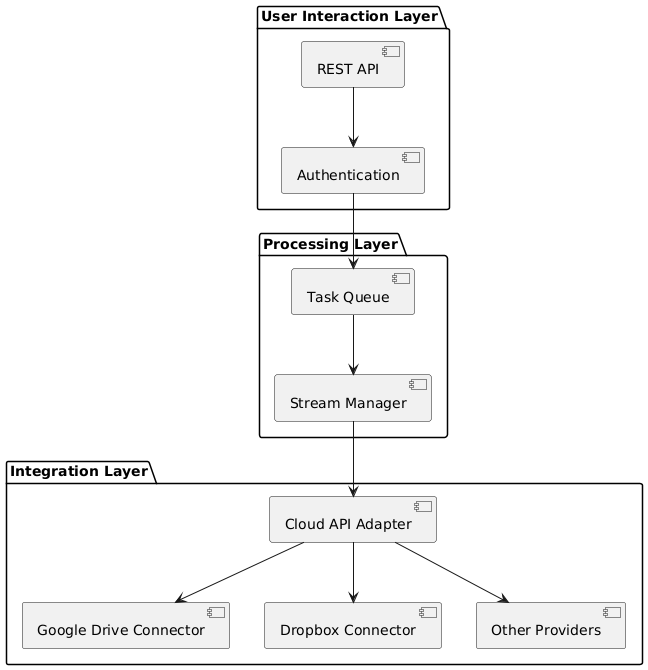
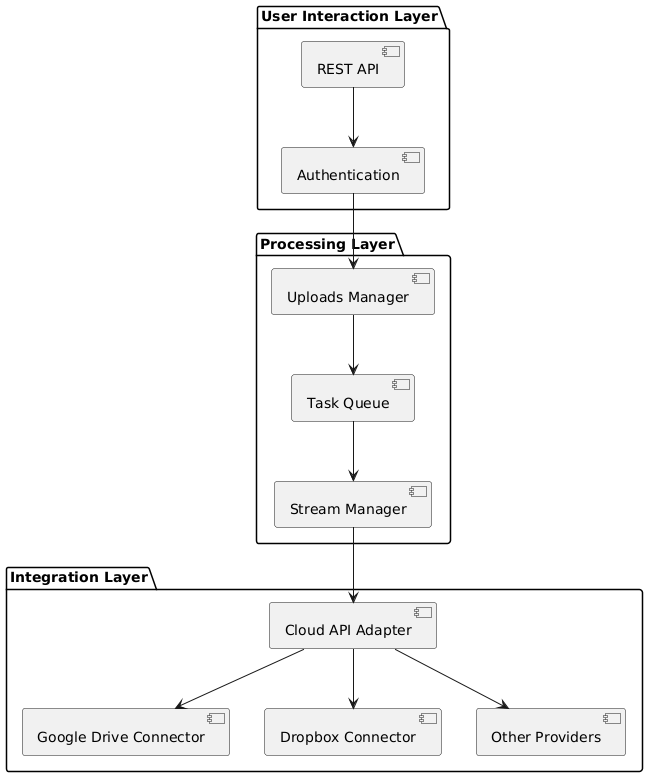
Update authentication method to use Auth0, enhance uploads module, and refine API design
- Changed user authentication from JWT to Auth0 for improved security.
- Added an Uploads Module to manage uploads and their statuses, including support for streaming to cloud storage.
- Updated API design documentation to reflect new endpoints for uploads and improved authentication details.
- Revised architecture description to clarify modular design and component interactions.

Changed region(s): [[0.0, 0.1791, 1.0, 1.0], [0.4012, 0.0, 0.7099, 0.1194], [0.6173, 0.5373, 0.6481, 0.5672]]

diff --git a/api-design.md b/api-design.md
@@ -3,7 +3,7 @@
 
 ## Architecture Design
 
-The system is designed with a modular and extensible architecture to support file uploads (local, URLs, torrents/magnet links) and integration with multiple cloud storage providers.
+The system is designed with a modular and extensible architecture to support file uploads (URLs, torrents/magnet links) and integration with multiple cloud storage providers.
 
 ### Component Diagram
 <img src="image.png" alt="File Uploader App Design" />
@@ -12,24 +12,26 @@ The system is designed with a modular and extensible architecture to support fil
 ### Components
 
 - **REST API**: Provides endpoints for all app functionalities.
-- **Authentication**: Manages user authentication and authorization.
+- **Authentication**: Authentication and authorization managed with Auth0 and Passport.
 - **Cloud Providers**: Manages cloud providers and their connections.
 - **Stream Manager**: Streams files directly to cloud providers without server storage.
-- **Task Queue**: Manages file upload/download tasks efficiently.
+- **Task Queue**: Manages upload/download tasks efficiently.
 - **Cloud API Adapter**: Abstracts cloud storage interactions for Google Drive, Dropbox, and other providers.
+- **Uploads Manager**: Manages uploads and their statuses.
 
 ---
 
 ## API Design
 
 ### Authentication
-1. **POST** `/auth/login`: Authenticate and obtain JWT tokens.
-2. **POST** `/auth/register`: Register a new user.
+1. **GET** `/auth/me`: Get the current user.
+
 
 ### File Upload Operations
-1. **POST** `/files/upload`: Upload a local file to a cloud provider.
-2. **POST** `/files/upload-url`: Stream a file from a URL to a cloud provider.
-3. **POST** `/files/upload-torrent`: Process a torrent/magnet link and stream it to a cloud provider.
+1. **POST** `/uploads/url`: Stream a file from a URL to a cloud provider.
+2. **POST** `/uploads/torrent`: Process a torrent/magnet link and stream it to a cloud provider.
+3. **GET** `/uploads/{upload_id}`: Get the status of a specific upload.
+4. **GET** `/uploads`: List all uploads for the user.
 
 ### Task Management
 1. **GET** `/tasks/{task_id}`: Get the status of a specific task.
